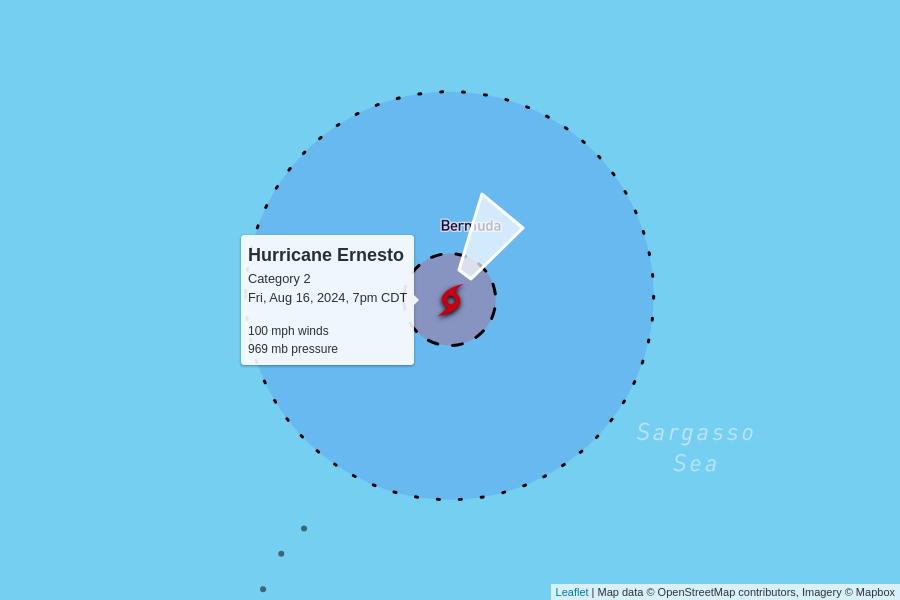
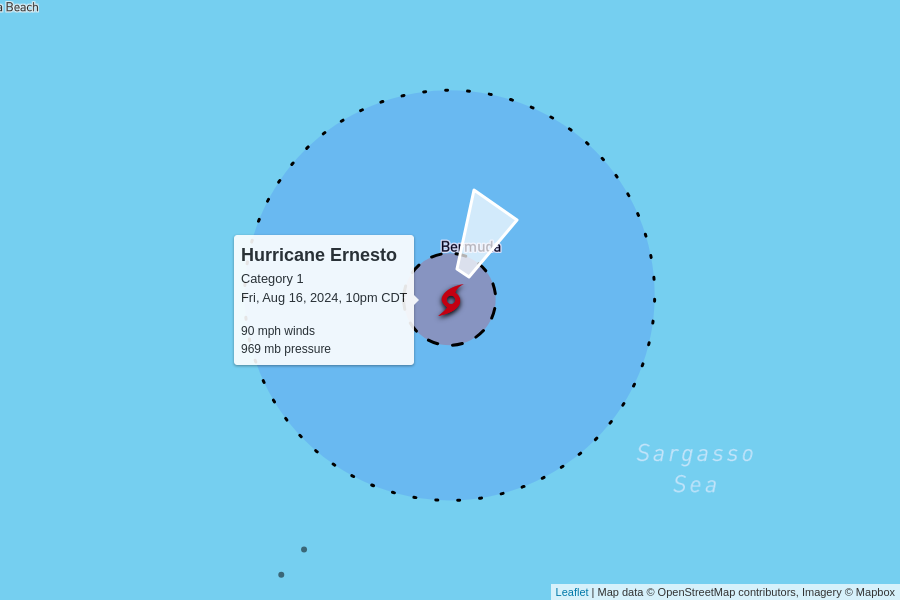
automatic update

diff --git a/docs/index.html b/docs/index.html
@@ -99,10 +99,10 @@
 
     <table>
       <tr>
-        <td colspan="6" class="storm category-2" >
+        <td colspan="6" class="storm category-1" >
           <h2>
-            Hurricane Ernesto - Category 2
-            <p class="updated">last updated <span data-time>2024-08-17T00:00:00.000Z</span></p>
+            Hurricane Ernesto - Category 1
+            <p class="updated">last updated <span data-time>2024-08-17T03:00:00.000Z</span></p>
           </h2>
         </td>
       </tr>
@@ -117,12 +117,12 @@
       </tr>
       <tr>
         <td class="spacer"></td>
-        <td>100 mph<br>0 mph since last update</td>
+        <td>90 mph<br>-10 mph since last update</td>
         <td>969 mb<br>0 mb since last update</td>
         <td>
-          13 mph to the northeast
+          13 mph to the north-northeast
           <br/>
-          <span style="display: inline-block; font-size: 1.5em; transform: rotate(35deg);">↑</span>
+          <span style="display: inline-block; font-size: 1.5em; transform: rotate(30deg);">↑</span>
         </td>
         <td><a href="https://raw.githubusercontent.com/mgwalker/atlantic-hurricanes/main/data/csv/AL052024.csv">AL052024.csv</a></td>
         <td><a href="https://www.nhc.noaa.gov/archive/2024/ERNESTO.shtml?">NHC advisories</a></td>
